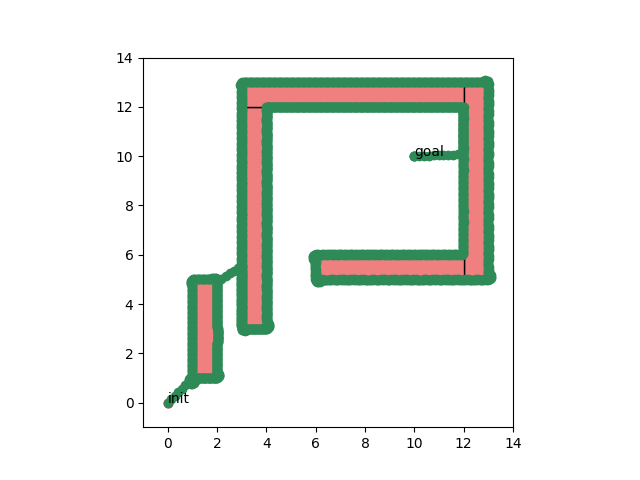
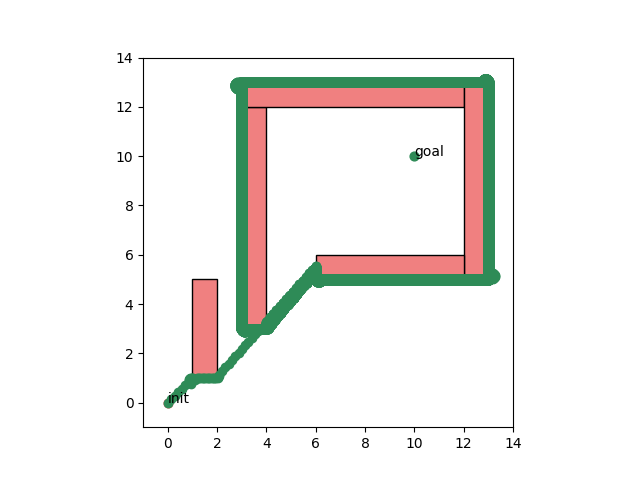
started bug2

Changed region(s): [[0.3438, 0.1562, 0.7812, 0.6875], [0.2812, 0.5312, 0.4062, 0.7812]]

diff --git a/ws/hw2/MyBugAlgorithm.cpp b/ws/hw2/MyBugAlgorithm.cpp
@@ -19,7 +19,7 @@ amp::Path2D MyBugAlgorithm::plan(const amp::Problem2D& problem) {
     
     const double safeDist = 0.05;  // Distance for boundary following
     const double checkDist = 0.05; // Distance for collision checking
-    const int maxSteps = 5000;
+    const int maxSteps = 10000;
     
     // Initialize member variables
     goalReached = false;
@@ -159,6 +159,7 @@ amp::Path2D MyBugAlgorithm::plan(const amp::Problem2D& problem) {
     return path;
 }
 
+// THIS NEEDS MORE WORK BUT CLOSE
 amp::Path2D MyBugAlgorithm::planBUG2(const amp::Problem2D& problem) {
     amp::Path2D path;
 
@@ -166,6 +167,9 @@ amp::Path2D MyBugAlgorithm::planBUG2(const amp::Problem2D& problem) {
     Eigen::Vector2d q_start = problem.q_init;
     q_previous = problem.q_init;
     Eigen::Vector2d q_goal = problem.q_goal;
+    Eigen::Vector2d mLineDir = (q_goal - q_start).normalized();
+    
+
     
     const double tol = 1e-2;
     const double minStepSize = 0.05;  // Distance to move toward goal
@@ -174,7 +178,7 @@ amp::Path2D MyBugAlgorithm::planBUG2(const amp::Problem2D& problem) {
     
     const double safeDist = 0.05;  // Distance for boundary following
     const double checkDist = 0.05; // Distance for collision checking
-    const int maxSteps = 5000;
+    const int maxSteps = 100000;
     
     // Initialize member variables
     goalReached = false;
@@ -265,21 +269,34 @@ amp::Path2D MyBugAlgorithm::planBUG2(const amp::Problem2D& problem) {
                 q_L.row(i-1) = q.transpose();
                 //std::cout << "Updated q_L to: " << q.transpose() 
                         //<< " (dist to goal: " << currentDistToGoal << ")" << std::endl;
-            } else {
+            }
+            Eigen::Vector2d dir1 = (q_goal - q).normalized();
+            Eigen::Vector2d dir2 = mLineDir.normalized();
+            if (std::abs(dir1.dot(dir2) - 1.0) <= 1e-1 && boundarySteps > 10) {
+                // reencountered m-line
+                std::cout << "re-encountered m-line " << q.transpose() << std::endl;
+                std::cout << "Moving to best q_L: " << q_L.row(i-1) << std::endl;
                 loopCompleted = true;
             }
 
-            /*
+            
             // Check if we've completed a full loop (returned to q_H)
             if (!loopCompleted && (q - q_H.row(i-1).transpose()).norm() <= 1e-1 && boundarySteps > 10) { //HAD TO MASSIVELY REDUCE TOLERANCE
                 std::cout << "Full loop completed! Returned to q_H: " << q.transpose() << std::endl;
                 std::cout << "Moving to best q_L: " << q_L.row(i-1) << std::endl;
                 loopCompleted = true;
             }
-            */
+            
             
             // If loop is completed and we're now at the best leave point, exit boundary following
             if (loopCompleted) {
+                
+                std::cout << "Reached best q_L: " << q.transpose() << ", exiting boundary following" << std::endl;
+                boundaryFollowing = false;
+                collide = false;
+                    
+                continue;
+                /*
                 Eigen::Vector2d bestLeavePoint = q_L.row(i-1).transpose();
                 if ((q - bestLeavePoint).norm() <= 1e-1) {
                     std::cout << "Reached best q_L: " << q.transpose() << ", exiting boundary following" << std::endl;
@@ -288,6 +305,7 @@ amp::Path2D MyBugAlgorithm::planBUG2(const amp::Problem2D& problem) {
                     
                     continue;
                 }
+                */
             }
             
             // Move along boundary using wall-following (CCW or CW based on direction)

diff --git a/ws/hw2/main.cpp b/ws/hw2/main.cpp
@@ -19,9 +19,9 @@ int main(int argc, char** argv) {
     Problem2D problem = HW2::getWorkspace1();
 
     // Use WO1 from Exercise 2
-    /*
-    Problem2D problem = HW2::getWorkspace2();
-    */
+    
+    //Problem2D problem = HW2::getWorkspace2();
+    
 
     // Make a random environment spec, edit properties about it such as the number of obstacles
     /*
@@ -40,7 +40,8 @@ int main(int argc, char** argv) {
     
     {
         // Call your algorithm on the problem
-        amp::Path2D path = algo.plan(problem);
+        //amp::Path2D path = algo.plan(problem); // bug1
+        amp::Path2D path = algo.planBUG2(problem);
 
         // Check your path to make sure that it does not collide with the environment 
         bool success = HW2::check(path, problem);
@@ -69,7 +70,7 @@ int main(int argc, char** argv) {
     Visualizer::saveFigures(true, "hw2_figs");
 
 
-    HW2::grade(algo, "joseph.krauskopf@colorado.edu", argc, argv);
+    //HW2::grade(algo, "joseph.krauskopf@colorado.edu", argc, argv);
     
     /* If you want to reconstruct your bug algorithm object every trial (to reset member variables from scratch or initialize), use this method instead*/
     //HW2::grade<MyBugAlgorithm>("nonhuman.biologic@myspace.edu", argc, argv, constructor_parameter_1, constructor_parameter_2, etc...);
